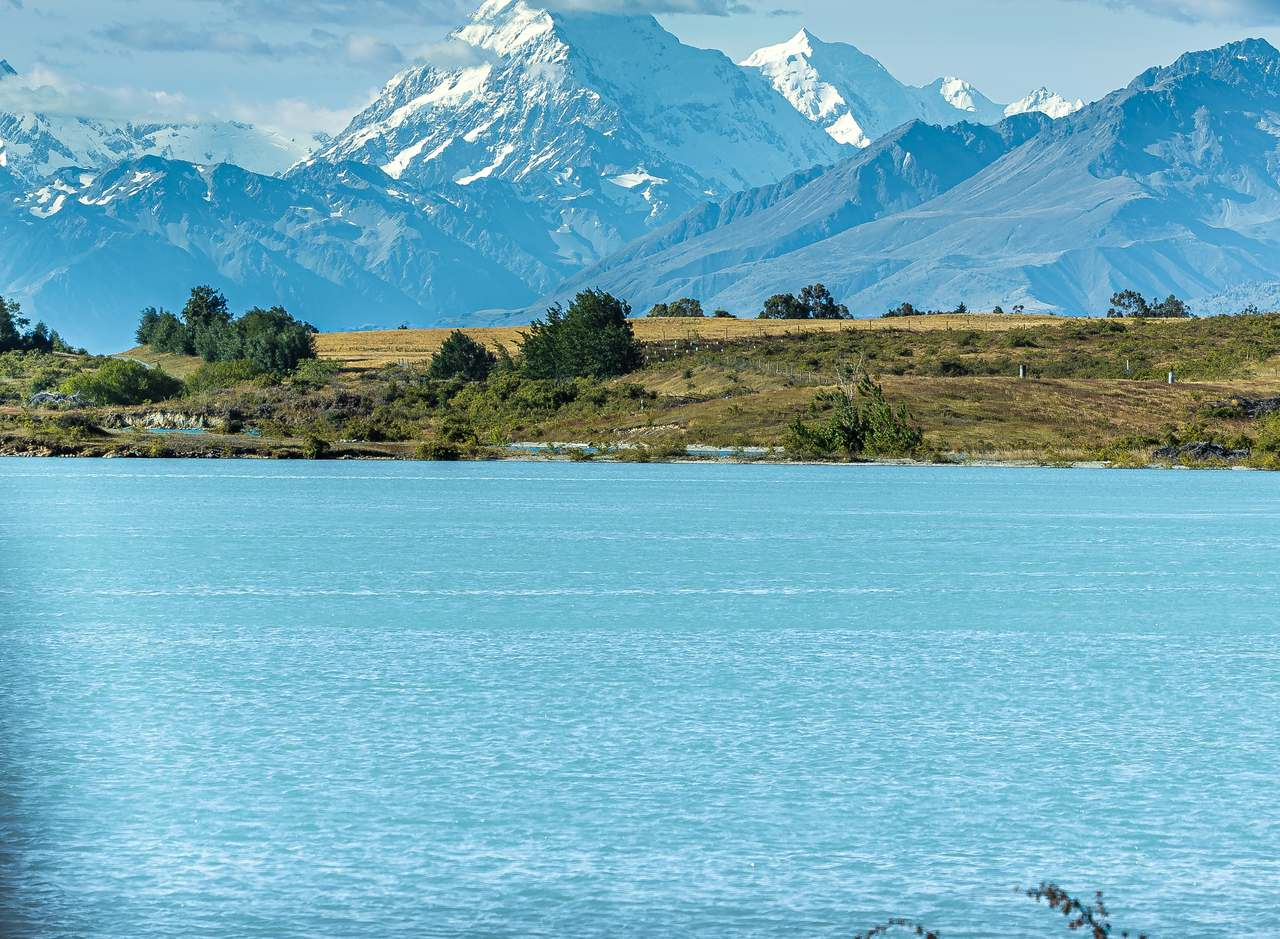
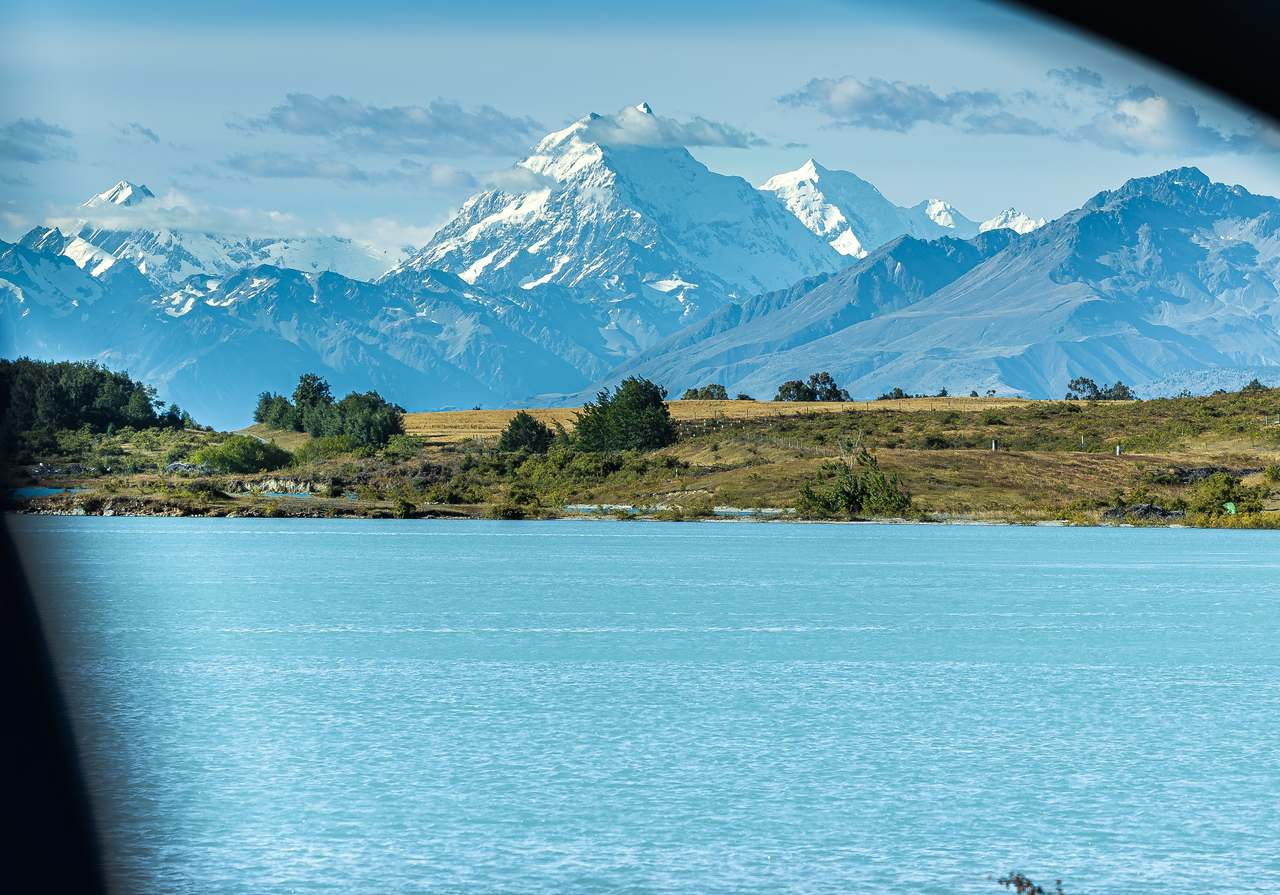
庫克山海面照片回到原本的取景 — Aoraki's sea copy back to the framing he saw before (his call)

diff --git a/design 2/wc-sketch/DESIGN.md b/design 2/wc-sketch/DESIGN.md
@@ -212,7 +212,7 @@ The map is the page. `.app` is fixed to the window. The map fills it edge to edg
 - bottom-right: Zoom in, Zoom out, Whole map, and the credit "Map: Natural Earth";
 - right edge: a vertical "Photographs 68" tab that opens a 23rem index drawer. The top-right words slide left with it. On phones the tab sits along the bottom and the drawer rises to 72dvh.
 
-**The photograph through the sea** (`MAP_PHOTOS_DEFAULT = 'ocean'` in `app.js`; his call, 2026-10-03). One photograph lies under the whole window, fixed to the screen, and shows only where there is water: the land is punched out of it every frame with the drawing's own land path at the current zoom (the lakes left open), so the paper, wash and pen of the land lie untouched over it, and the paper's tooth is lifted off the whole map so the photograph reads as the real thing, not a print in the paper. It is drawn at strength 0.9 with no blend, in the full-size copy on large and Retina screens. For now it is one photograph, Aoraki, as its own sea copy cut from the original to the view inside the car window (`images/web/new-zealand-aoraki-sea.jpg` with a 1280 copy; `SEA_FILE` in `makeOcean`); `?ocean=all` cycles through every photograph (12s hold, 2.5s crossfade, a hand on a book showing its cover), `?o=0.5` tries another strength, `?photos=none` turns it off. Where the plate ends above or below, the photograph goes on to the window's edge.
+**The photograph through the sea** (`MAP_PHOTOS_DEFAULT = 'ocean'` in `app.js`; his call, 2026-10-03). One photograph lies under the whole window, fixed to the screen, and shows only where there is water: the land is punched out of it every frame with the drawing's own land path at the current zoom (the lakes left open), so the paper, wash and pen of the land lie untouched over it, and the paper's tooth is lifted off the whole map so the photograph reads as the real thing, not a print in the paper. It is drawn at strength 0.9 with no blend, in the full-size copy on large and Retina screens. For now it is one photograph, Aoraki, as its own sea copy cut from the original at the framing he chose, inside the car window (`images/web/new-zealand-aoraki-sea.jpg` with a 1280 copy; `SEA_FILE` in `makeOcean`); `?ocean=all` cycles through every photograph (12s hold, 2.5s crossfade, a hand on a book showing its cover), `?o=0.5` tries another strength, `?photos=none` turns it off. Where the plate ends above or below, the photograph goes on to the window's edge.
 
 Pages (the leaf) use `.wrap`: `min(76rem, 100% - 2 × clamp(1.25rem, 4vw, 3rem))`, top padding `clamp(2.5rem, 6vw, 4.5rem)`. The guide reads in two columns (a 13rem sticky contents list and the text, gap `clamp(2rem, 5vw, 5rem)`) and goes to one column below 64rem. Photographs on a place page sit in justified rows whose items flex by their aspect ratio (`--ar`), gap 0.85rem, rows 2.75rem apart. On phones they stack.
 
